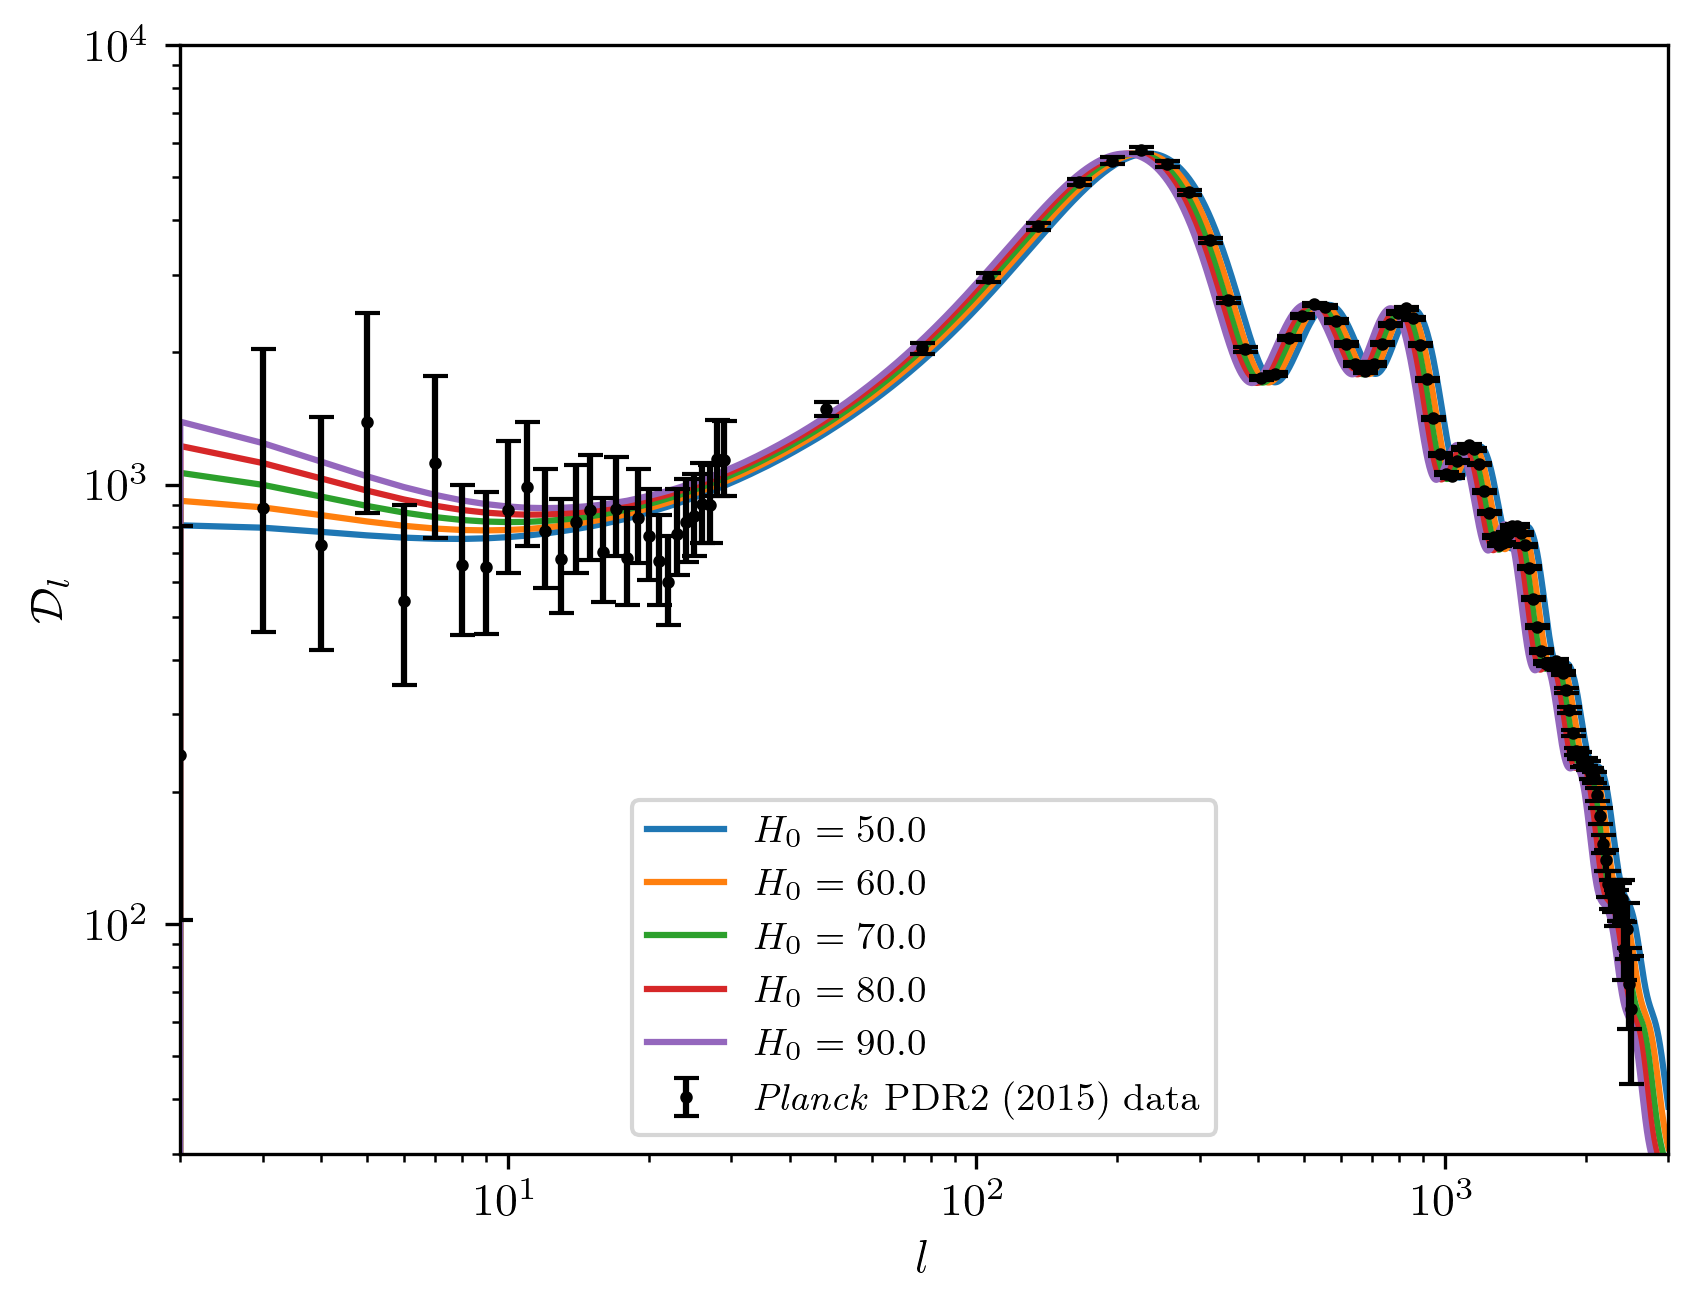
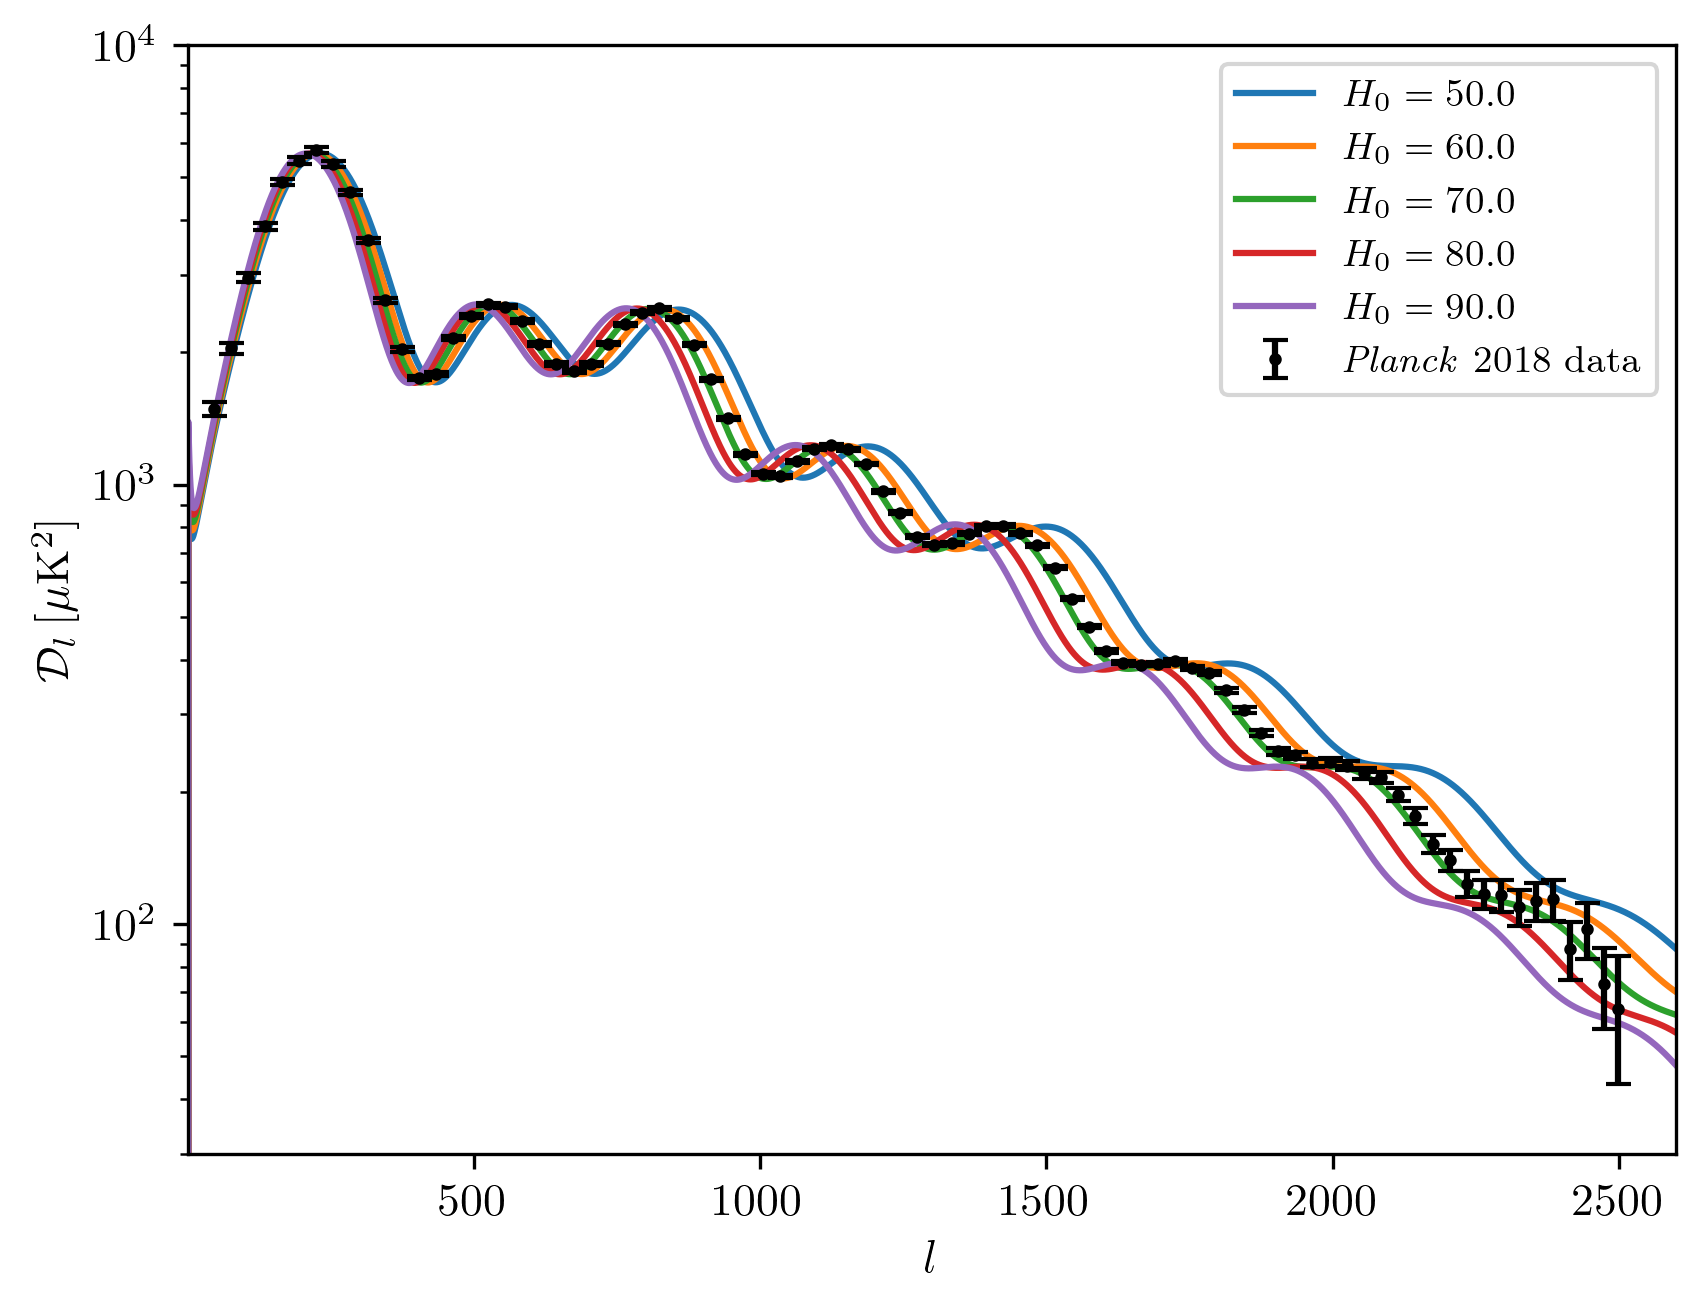
remove lowell from example plot

diff --git a/scripts/plot_models_data.py b/scripts/plot_models_data.py
@@ -35,6 +35,7 @@ for H0_plot in H0_list:
     cl_tt = all_cls[:,0]
 
     if H0_plot == 67.:
+        # np.savetxt('./data/h067_theory.txt', np.column_stack([ells, cl_tt]))
         continue
     else:
         plt.plot(ells, cl_tt, label=f'$H_0 = {H0_plot:.1f}$')
@@ -43,14 +44,17 @@ for H0_plot in H0_list:
 planck_data = Table.read('data/COM_PowerSpect_CMB_R2.02.fits', hdu=7)
 planck_data_lowell = Table.read('data/COM_PowerSpect_CMB_R2.02.fits', hdu=1)
 plt.errorbar(planck_data['ELL'], planck_data['D_ELL'], yerr=planck_data['ERR'], fmt='o', markersize=2, capsize=3, color='k', label='\emph{Planck} PDR2 (2015) data')
-plt.errorbar(planck_data_lowell['ELL'], planck_data_lowell['D_ELL'], yerr=[planck_data_lowell['ERRDOWN'], planck_data_lowell['ERRUP']], fmt='o', markersize=2, capsize=3, label=None, color='k')
+# plt.errorbar(planck_data_lowell['ELL'], planck_data_lowell['D_ELL'], yerr=[planck_data_lowell['ERRDOWN'], planck_data_lowell['ERRUP']], fmt='o', markersize=2, capsize=3, label=None, color='k')
+
+# np.savetxt('./data/planck_data.txt', np.column_stack([planck_data['ELL'], planck_data['D_ELL'], planck_data['ERR']]))
 
 plt.legend(fontsize='small')
-plt.xscale('log')
+# plt.xscale('log')
 plt.yscale('log')
 plt.xlabel('$l$')
-plt.ylabel('$\mathcal{D}_l$')
-plt.xlim([2,3000])
+plt.ylabel('$\mathcal{D}_l\,[\mu\mathrm{K}^2]$')
+plt.xlim([2,2600])
+# plt.ylim([0, 6000])
 plt.ylim([3.e1, 1.e4])
 
 plt.savefig('./plots/cmb_example.png', dpi=300, bbox_inches='tight')
@@ -64,7 +68,7 @@ plt.legend(fontsize='small')
 plt.xscale('log')
 plt.yscale('log')
 plt.xlabel('$l$')
-plt.ylabel('$\mathcal{D}_l$')
+plt.ylabel('$\mathcal{D}_l\,[\mu\mathrm{K}^2]$')
 plt.xlim([2,6000])
 plt.ylim([1.e1, 1.e4])
 
